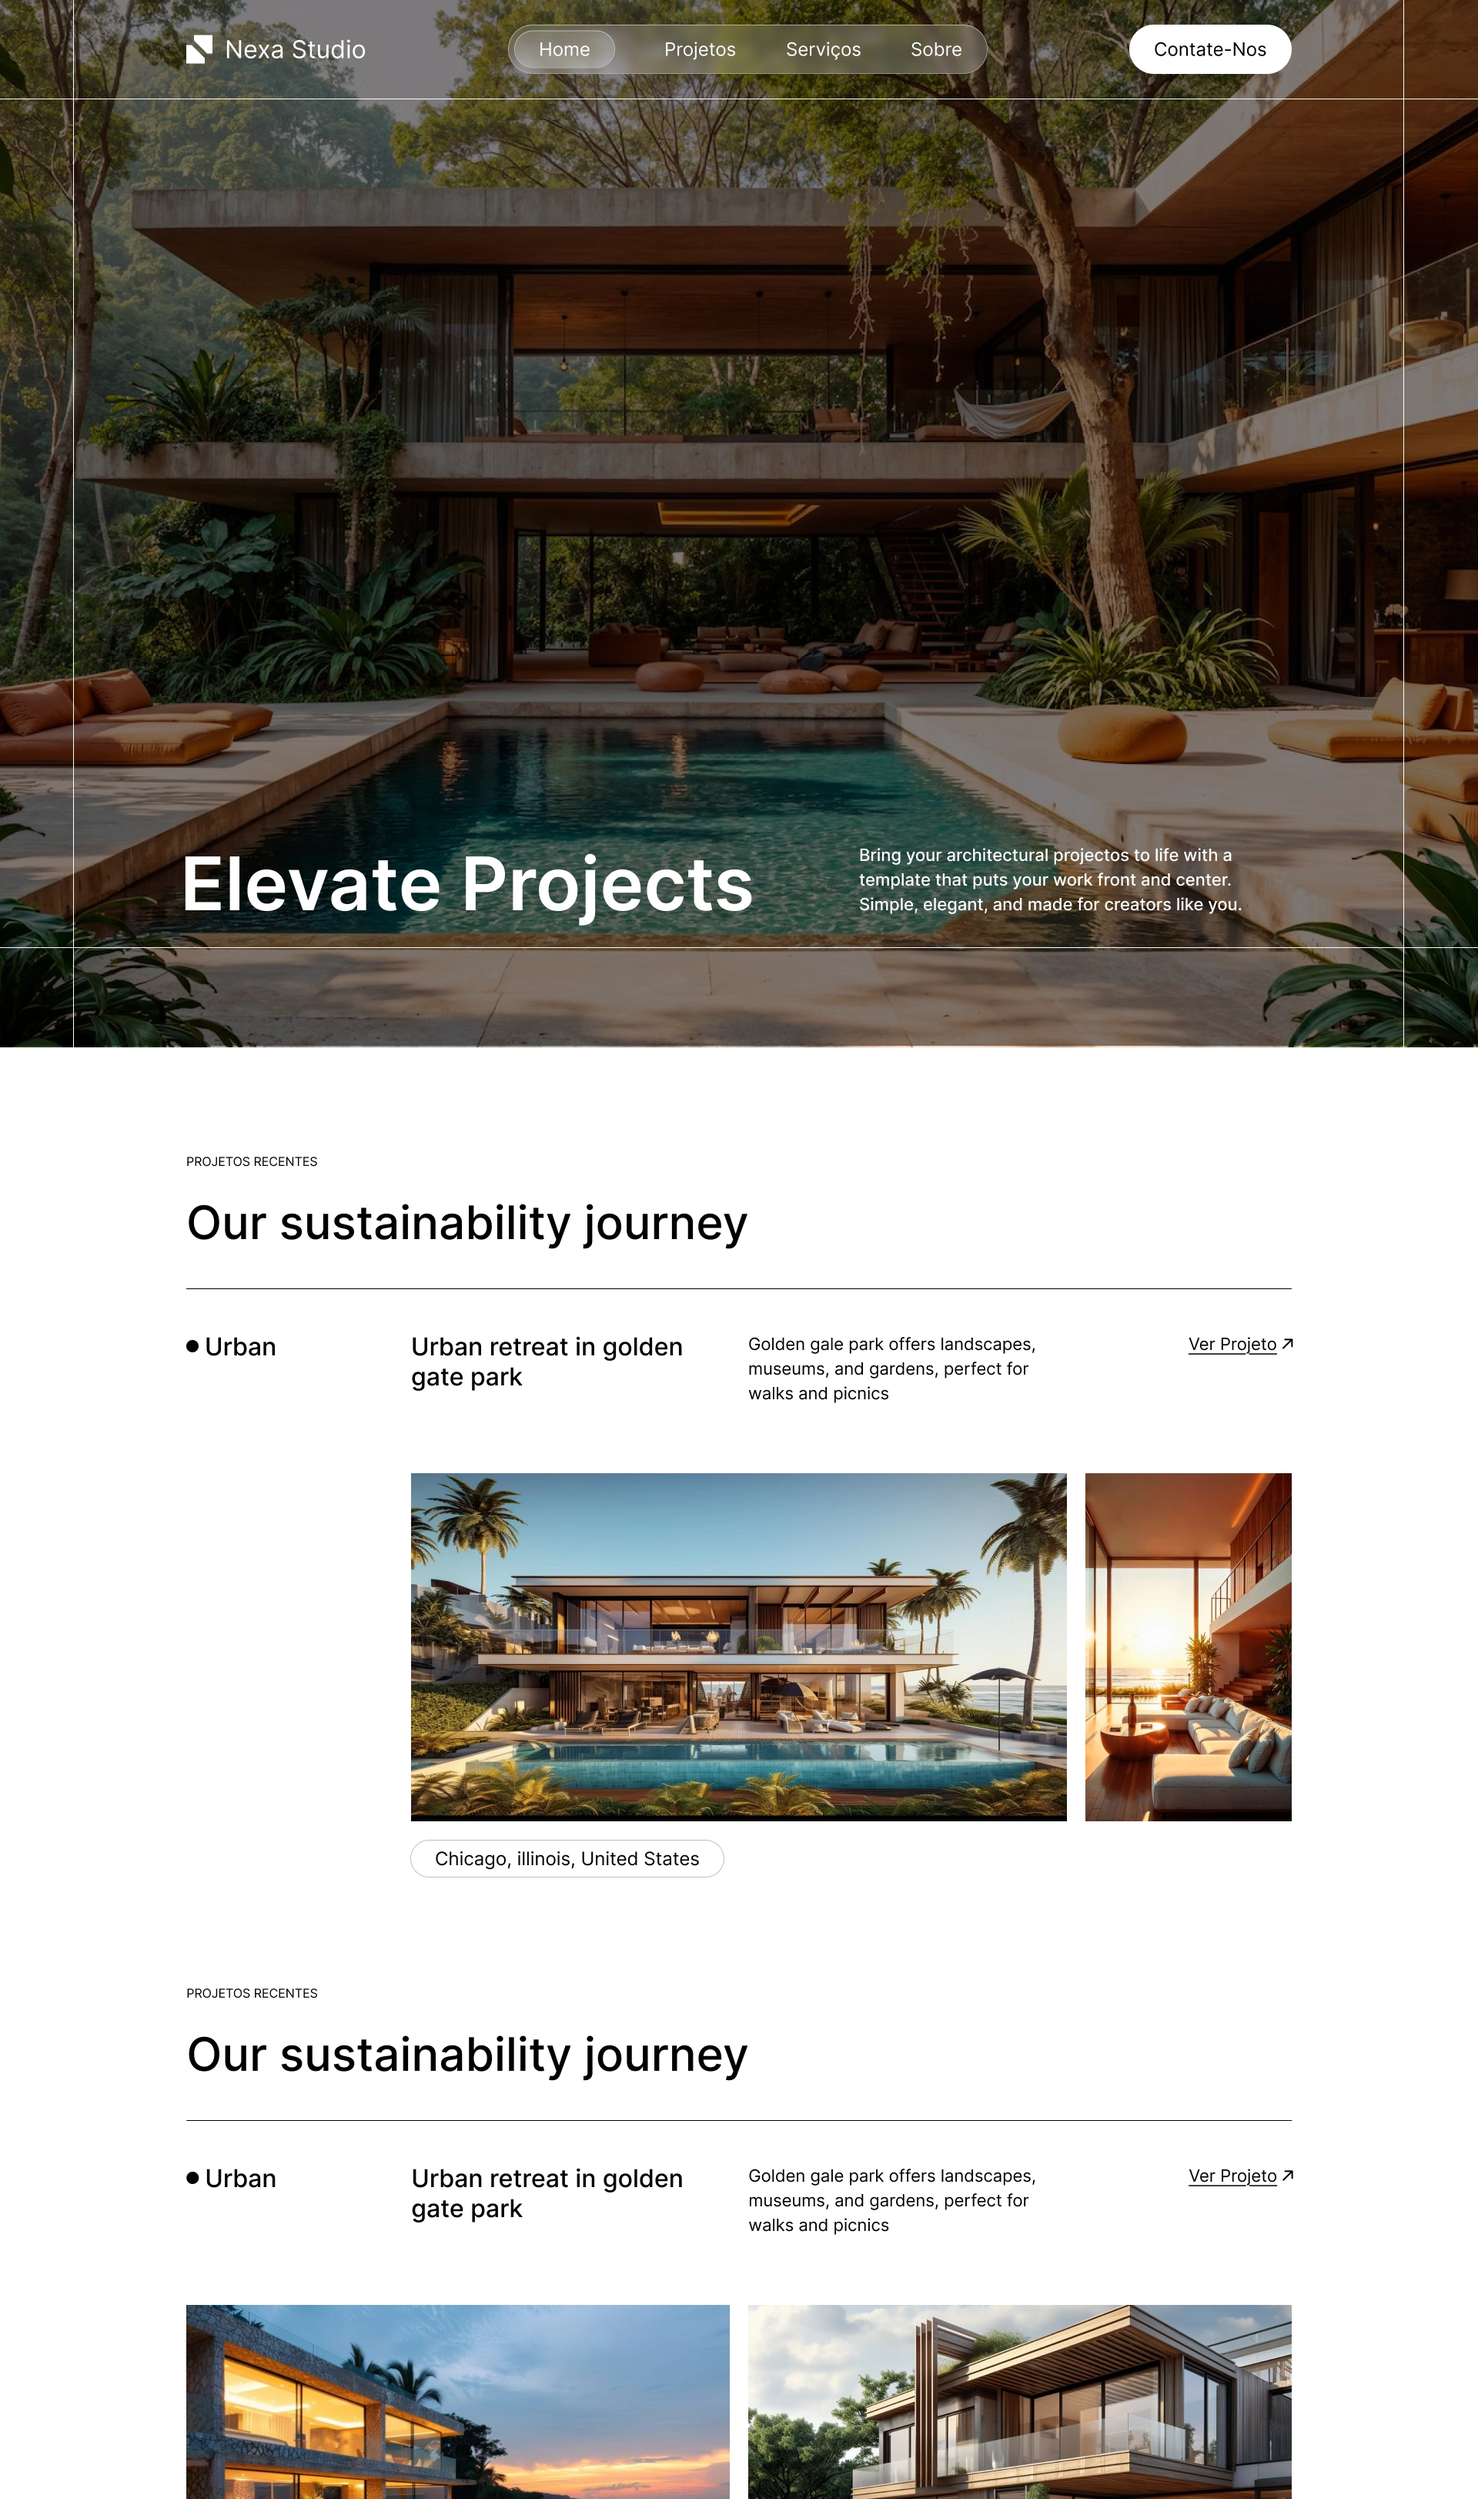
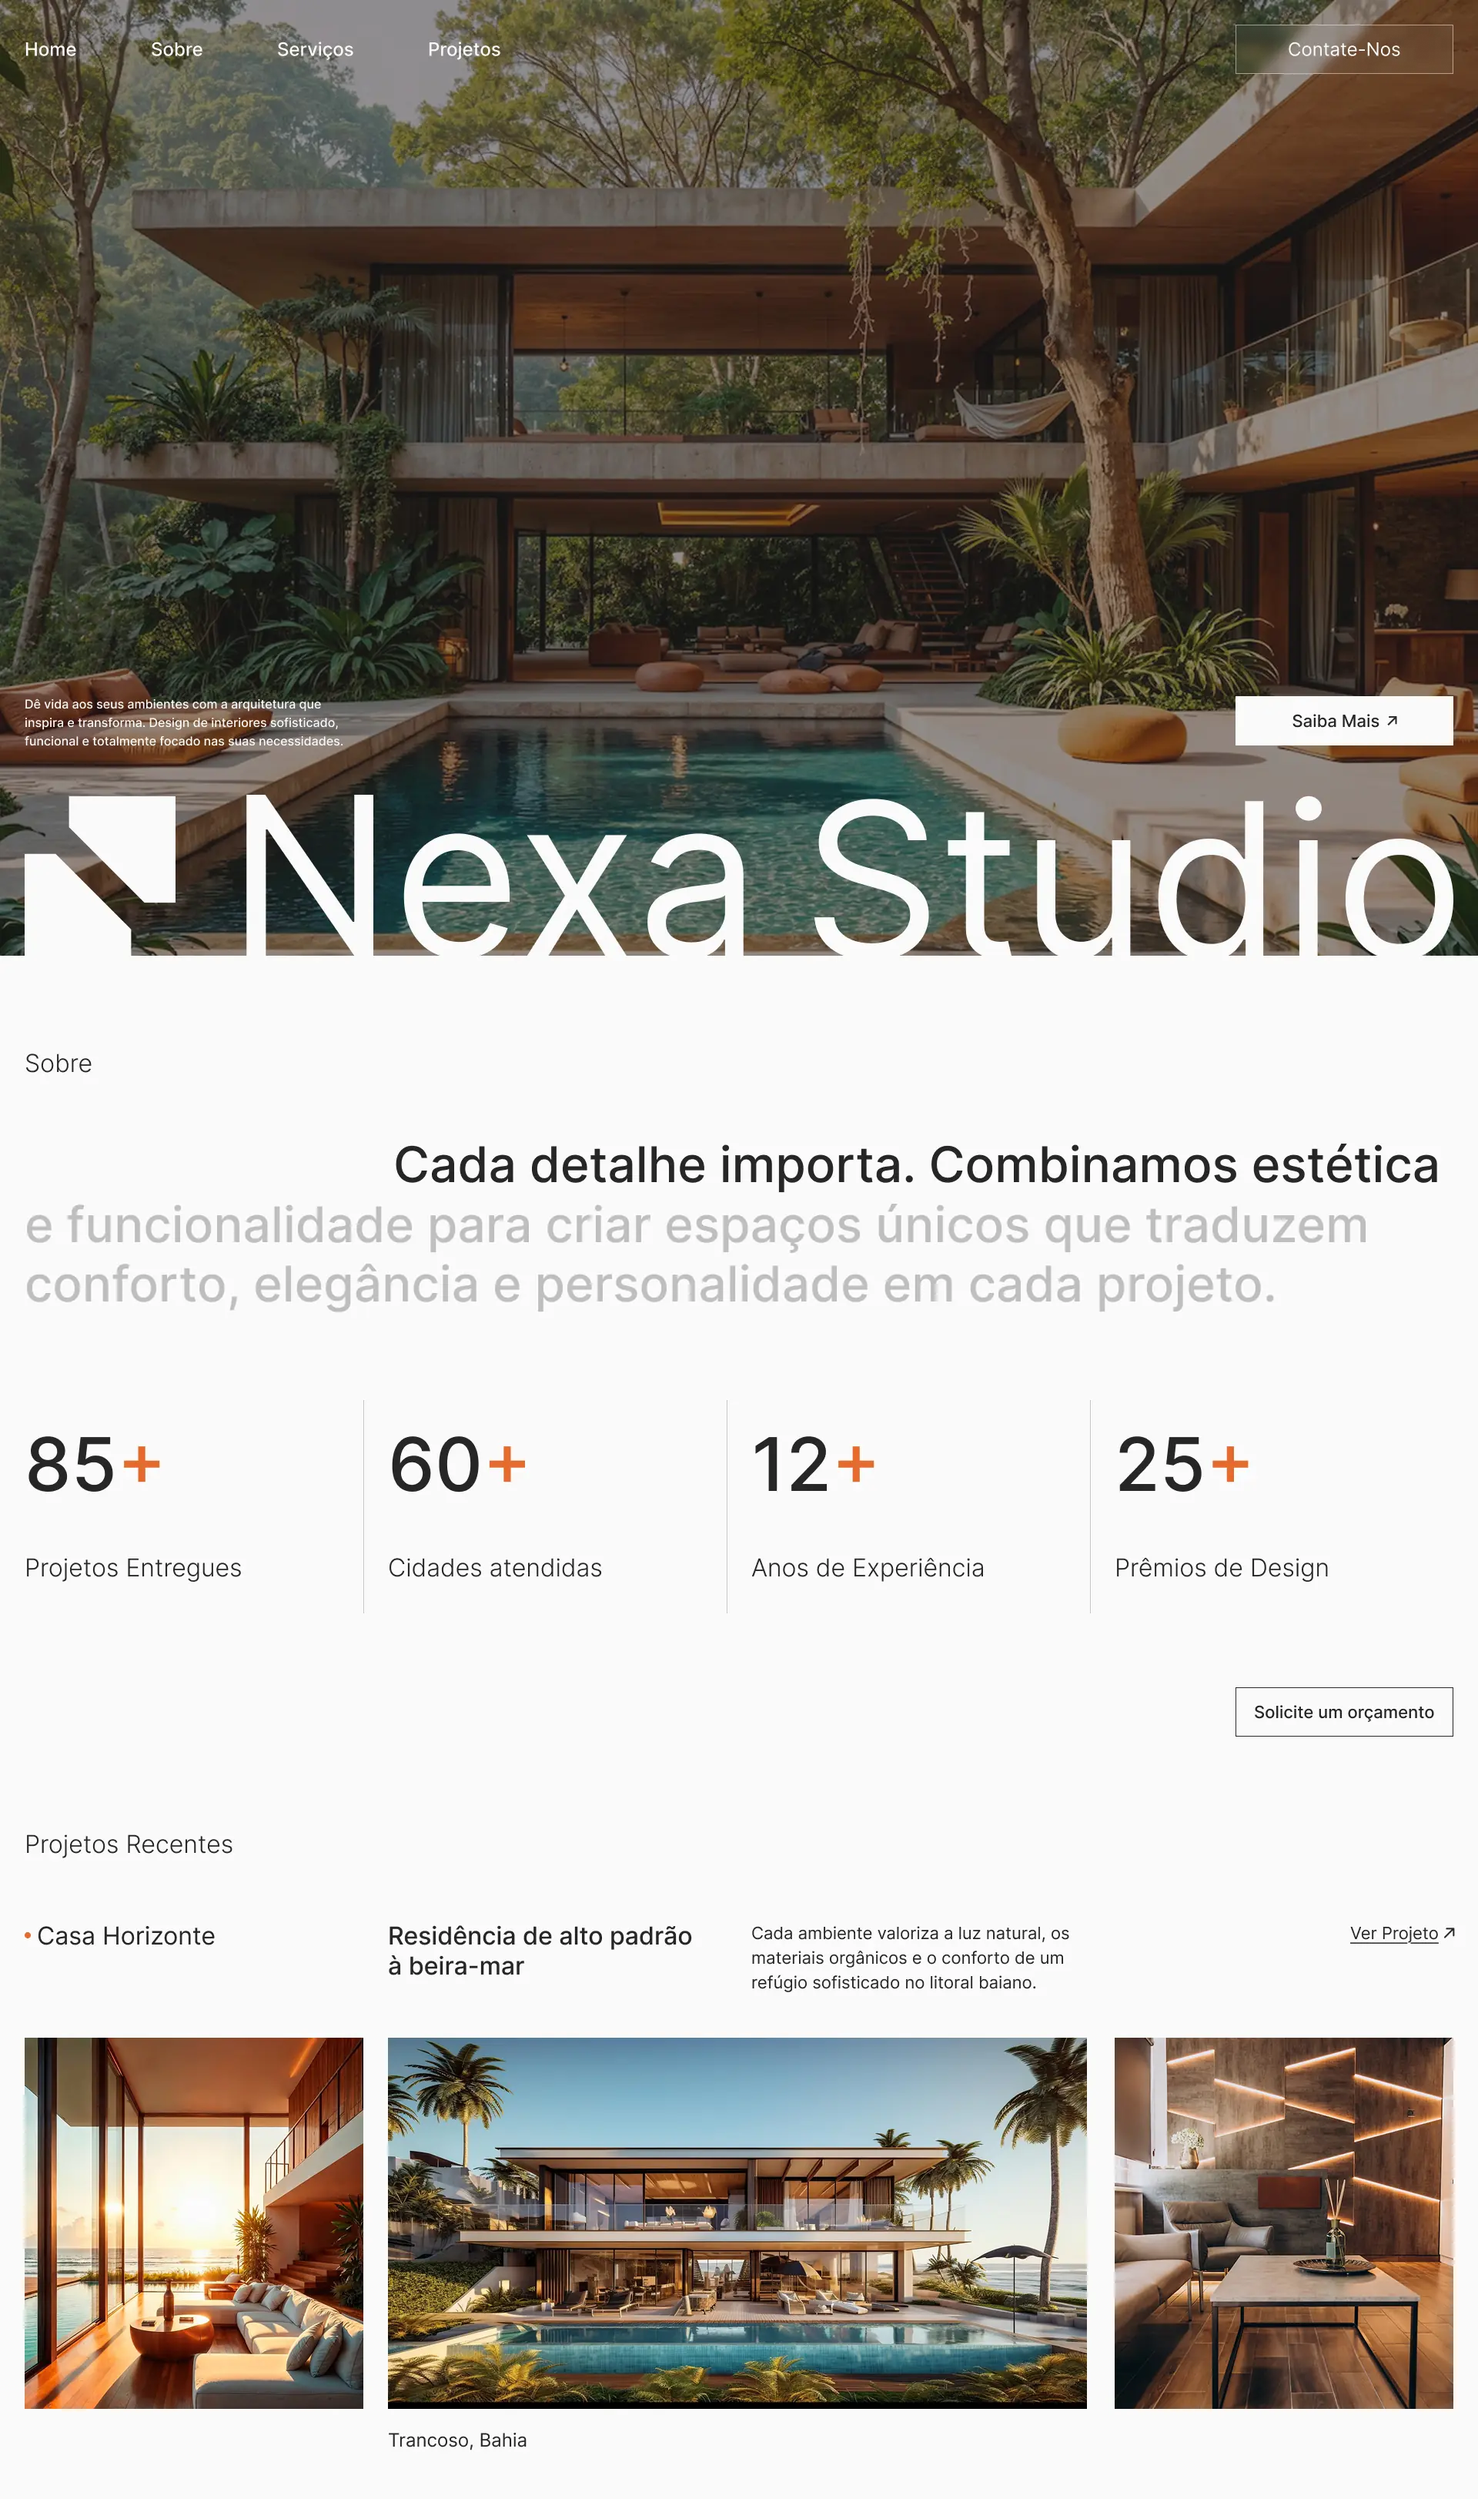
Images replaced and improved Button

diff --git a/src/components/Button.jsx b/src/components/Button.jsx
@@ -3,10 +3,34 @@
 import Link from 'next/link'
 import React from 'react'
 
-const Button = ({type, children, where}) => {
+const Button = ({type, children, where, target = '_blank'}) => {
+
+  const handleScroll = e => {
+    if (where.startsWith('#')) {
+      e.preventDefault()
+
+      const sectionId = where.replace('#', '')
+      const section = document.getElementById(sectionId)
+
+      if (section) {
+        section.scrollIntoView({ behavior: 'smooth' })
+        window.history.replaceState(null, '', '/')
+      }
+    }
+  }
+
+  const baseStyle = `text-[clamp(0.75rem,2vw,1rem)] px-6 py-3 md:px-8 md:py-4 border-1 border-background rounded-lg relative overflow-hidden cursor-pointer max-w-max before:absolute duration-300 transition-colors ease-in-out ${type === 'main' ? 'text-darkp bg-background hover:text-background hover:bg-darkp' : 'text-background bg-darkp hover:bg-background hover:text-darkp hover:border-darkp'}`
+
+  if (where.startsWith('#')) {
+    return (
+      <a href={where} onClick={handleScroll} className={baseStyle}>
+        <span className='font-semibold z-1 flex items-center justify-between gap-2'>{children}</span>
+      </a>
+    )
+  }
 
   return (
-    <Link href={where} target='_blank' rel='noopener noreferrer' className={`text-[clamp(0.75rem,2vw,1rem)] px-6 py-3 md:px-8 md:py-4 border-1 border-background rounded-lg relative overflow-hidden cursor-pointer max-w-max before:absolute duration-300 transition-colors ease-in-out ${type === 'main' ? 'text-darkp bg-background hover:text-background hover:bg-darkp' : 'text-background bg-darkp hover:bg-background hover:text-darkp hover:border-darkp'}`}>
+    <Link href={where} target={target} rel='noopener noreferrer' className={baseStyle}>
         <span className='font-semibold z-1 flex items-center justify-between gap-2'>{children}</span>
     </Link>
   )

diff --git a/src/components/gallery/Gallery.jsx b/src/components/gallery/Gallery.jsx
@@ -7,34 +7,34 @@ import { useCallback, useState } from "react"
 const galleryData = [
   {
     id: 0,
-    src: '/teste2.png',
-    alt: 'Mockup do projeto Restaurante Saporito',
-    title: 'Restaurante Saporito',
-    text: 'Uma jornada pela culinária Italiana',
+    src: '/teste2.webp',
+    alt: 'Mockup do projeto Nexa Studio',
+    title: 'Nexa Studio',
+    text: 'Arquitetura e Design',
     gridClass: 'col-start-1 col-span-3 md:col-span-4 lg:col-span-6 row-start-1'
   },
   {
     id: 1,
     src: '/teste3.webp',
-    alt: 'Mockup do projeto Imobiliária Ocarina',
-    title: 'Imobiliária Ocarina',
-    text: 'Sua casa nova te aguarda',
+    alt: 'Mockup do projeto Fit&Go',
+    title: 'Fit&Go',
+    text: 'Moda fitness feminina',
     gridClass: 'col-start-1 md:col-start-5 lg:col-start-7 col-span-3 md:col-span-3 lg:col-span-5 row-start-2'
   },
   {
     id: 2,
     src: '/teste4.webp',
-    alt: 'Mockup do projeto Estúdio Mairink',
-    title: 'Estúdio Mairink',
-    text: 'Transformando suas ideias em arte',
+    alt: 'Mockup do projeto Solaris',
+    title: 'Solaris',
+    text: 'Soluções em energia solar',
     gridClass: 'col-start-1 col-span-3 md:col-span-4 lg:col-span-6 row-start-3'
   },
   {
     id: 3,
     src: '/teste5.webp',
-    alt: 'Mockup do projeto Academia Olympia',
-    title: 'Academia Olympia',
-    text: 'Construa sua melhor versão',
+    alt: 'Mockup do projeto Debit',
+    title: 'Debit',
+    text: 'Soluções digitais e automação',
     gridClass: 'col-start-1 md:col-start-5 lg:col-start-7 col-span-3 md:col-span-3 lg:col-span-5 row-start-4'
   }
 ]

diff --git a/src/components/hero/Hero.jsx b/src/components/hero/Hero.jsx
@@ -46,7 +46,7 @@ const Hero = () => {
                 <p className='text-background text-[clamp(0.8rem,2vw,1rem)] max-w-4xl' ref={paragraph}>Desenvolvemos experiências digitais únicas que conectam sua marca ao público certo. Sites modernos, identidades visuais marcantes e soluções personalizadas para elevar o seu negócio ao próximo nível.</p>
                 <div className="flex w-dvw gap-2 lg:gap-4">
                     <Button where="https://wa.me/message/MZ3XAEYWTNVYJ1" type='main'>Fale Conosco <PiPaperPlaneTiltBold/></Button>
-                    <Button where="#gallery" type='sec'>Conheça nosso trabalho</Button>
+                    <Button target='_self' where="#gallery" type='sec'>Conheça nosso trabalho</Button>
                 </div>
             </div>
             <div className="fixed right-2 md:right-4 lg:right-8 bottom-6 mix-blend-difference">

diff --git a/src/components/header/Header.jsx b/src/components/header/Header.jsx
@@ -154,7 +154,7 @@ const Header = () => {
             className="fixed top-0 left-0 w-dvw h-dvh bg-darkp z-5 clip-overlay"
             aria-hidden={!isMenuOpen}
         >
-            <div className="grid grid-rows-3 grid-cols-4 md:grid-cols-8 lg:grid-cols-12 md:gap-4 lg:gap-8 px-8 h-dvh content-end">
+            <div className="grid grid-rows-3 grid-cols-4 md:grid-cols-8 lg:grid-cols-12 md:gap-4 lg:gap-8 px-2 h-dvh content-end">
                 <div className="hidden md:block md:col-span-4 lg:col-span-5 row-span-2 -ml-8 relative h-dvh">
                     <Image 
                         src='/DestaqMock.webp' 

diff --git a/src/components/services/Services.jsx b/src/components/services/Services.jsx
@@ -8,7 +8,7 @@ const Services = () => {
     const [ active, setActive ] = useState(0)
 
   return (
-        <div id='services' className="mb-64">
+        <div id='services' className="mb-32 md:mb-64">
             <div className="custom-grid">
                 <TextScroll className="col-start-1 col-span-3 md:col-span-6 lg:col-span-9 row-start-2 text-[clamp(1.5rem,5vw,60px)] leading-snug my-32 lg:my-64">
                     Construímos sites modernos e otimizados para que sua marca brilhe na web.

diff --git a/src/components/gallery/ParallaxImage.jsx b/src/components/gallery/ParallaxImage.jsx
@@ -4,7 +4,7 @@ import Image from "next/image"
 import gsap from "gsap"
 import { useGSAP } from "@gsap/react"
 import { ScrollTrigger } from "gsap/all"
-import { useRef } from "react"
+import { useRef, useState } from "react"
 
 gsap.registerPlugin(ScrollTrigger)
 
